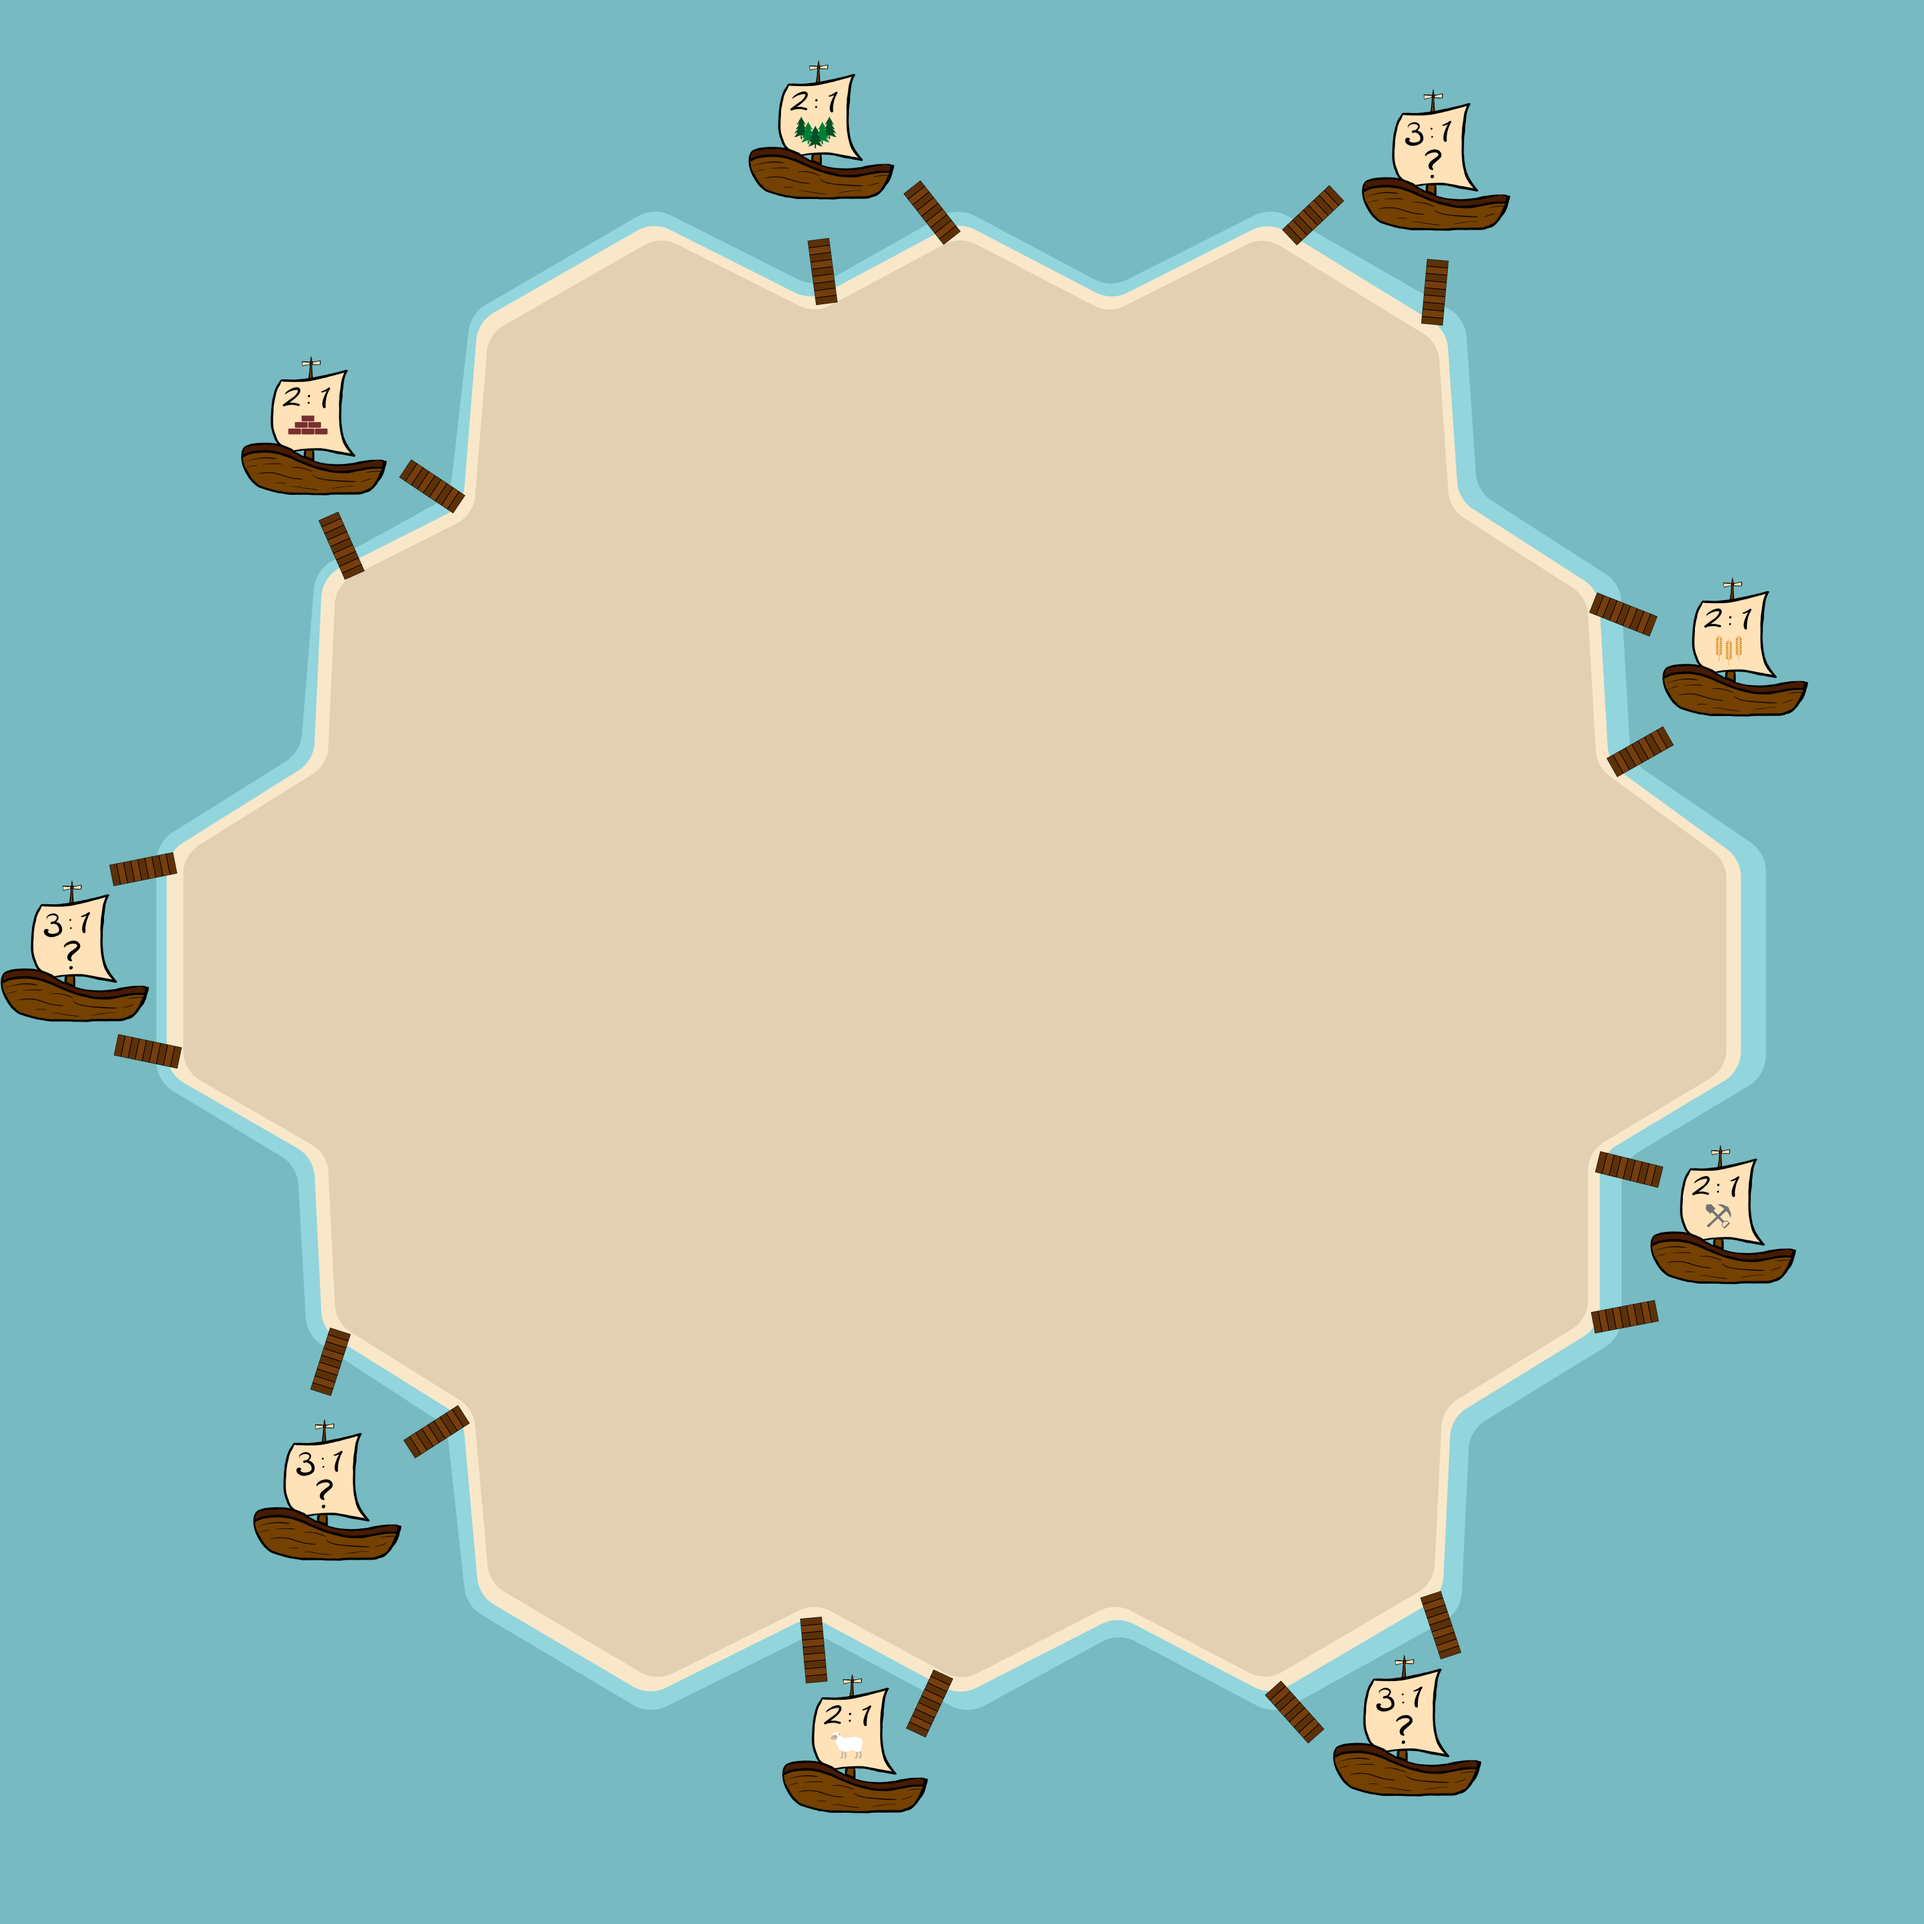
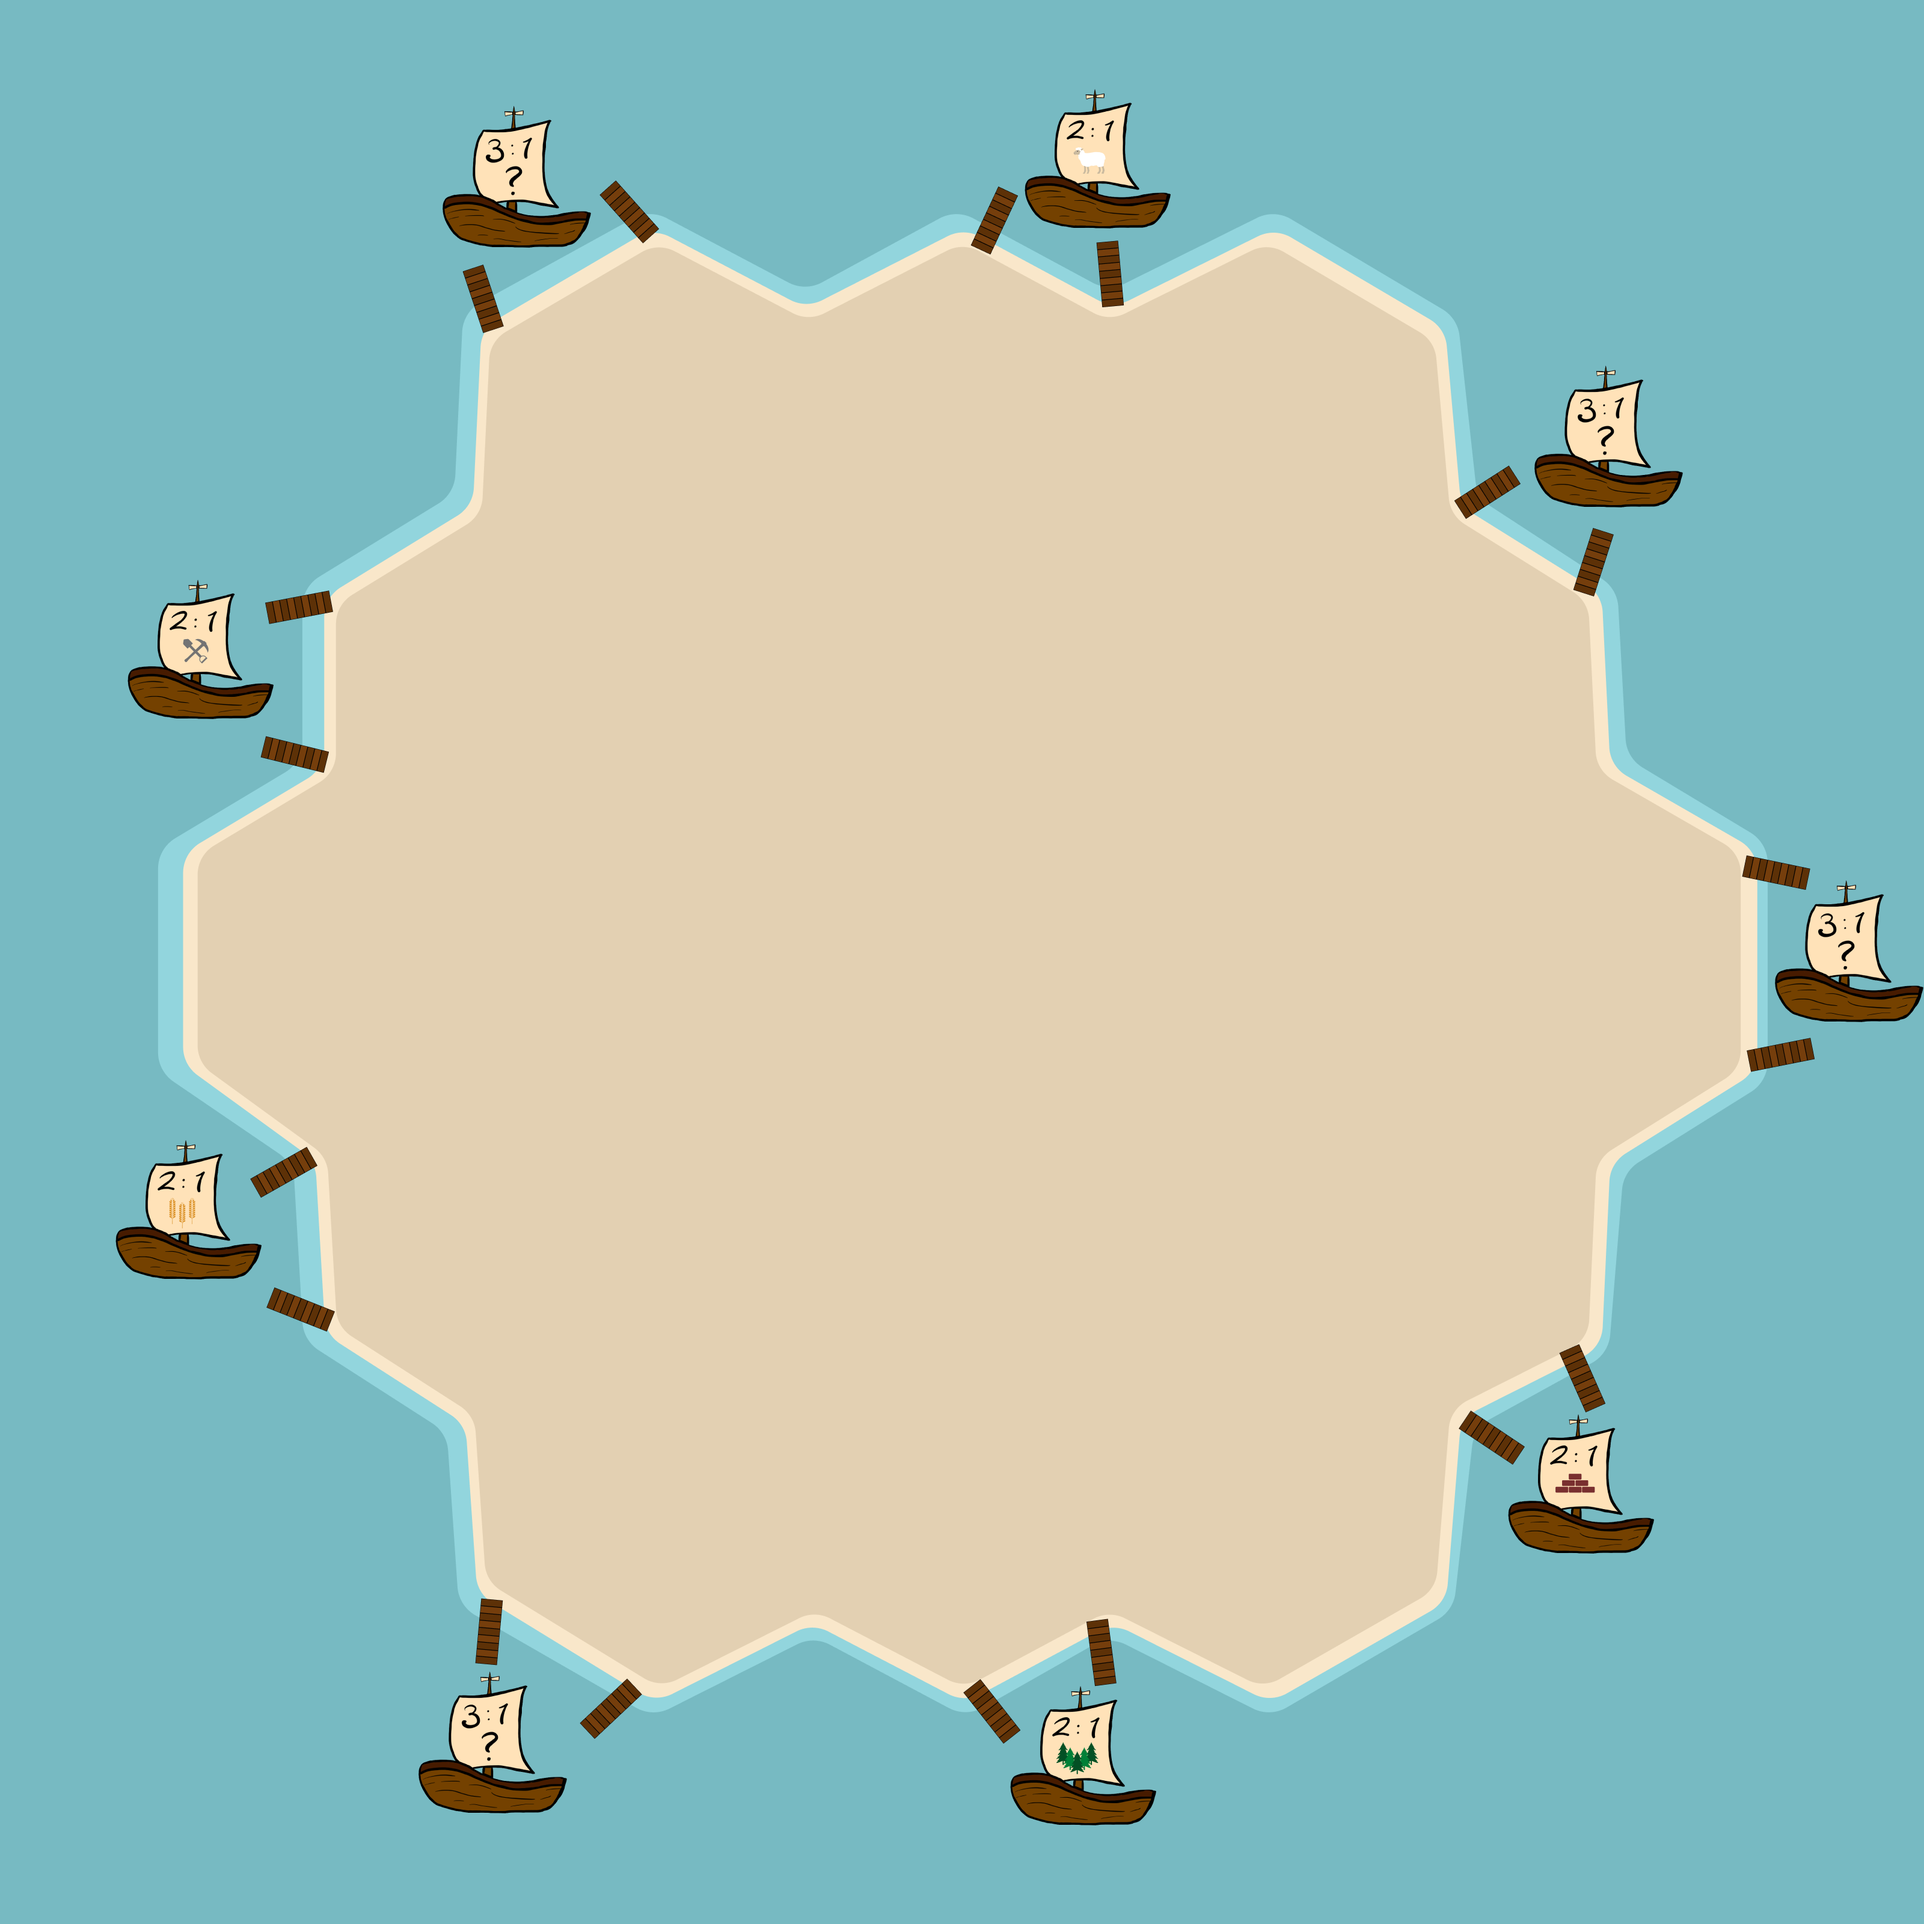
fix backdrop

diff --git a/src/game-ui/board.ts b/src/game-ui/board.ts
@@ -102,7 +102,7 @@ class Board extends PIXI.Container implements Updatable {
     backdrop.scale.set(0.21);
     backdrop.anchor.set(0.5);
     backdrop.position.set(0.5 * width);
-    backdrop.angle = 180;
+    // backdrop.angle = 180;
 
     this.addChild(backdrop, ...this.tiles, ...this.edges, ...this.nodes);
   }
